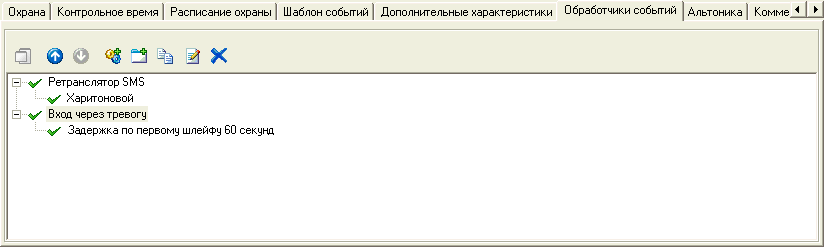
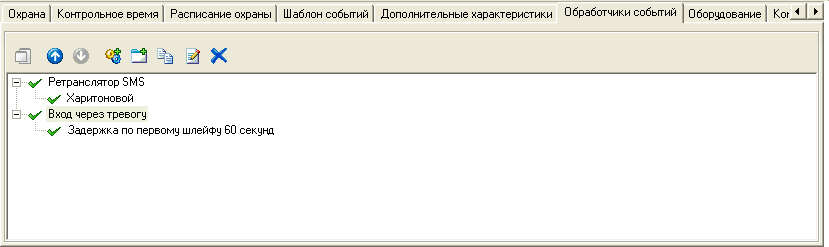
Закрыты баги: ANDR-1594, ANDR-1595, ANDR-1596, ANDR-1597, ANDR-1598, ANDR-1599, ANDR-1600, ANDR-1602, ANDR-1604, ANDR-1605, ANDR-1615, ANDR-1616.

diff --git a/russian/05-object-manager.md b/russian/05-object-manager.md
@@ -84,7 +84,7 @@
 
 ![Вкладка «Объект»: размещение объекта на карте][id-05-04-01]
 
-После того, как маркер будет установлен, следует нажать кнопку "Сохранить" для сохранения изменений. Для отмены сохранения нужно кликнуть по кнопке "Отменить". Полученные координаты объекта будут сохранены в "Облаке" и в базе данных "Центра охраны". 
+После того, как маркер будет установлен, следует нажать кнопку "Сохранить" для сохранения изменений. Полученные координаты объекта будут сохранены в "Облаке" и в базе данных "Центра охраны". После успешного сохранения координат кнопка "Удалить с карты" будет активна. В обратном случае потребуется повторить операцию размещения объекта на карте.
 
 Важно: размещение объектов на карте возможно при выполненном подключении к Облаку и открытых портах 80 и 443 протокола TCP для компьютера, на котором запущен модуль "Менеджер объектов".
 
@@ -191,19 +191,23 @@
 
 ![Вкладка «Ответственные лица»][id-05-07]
 
-С помощью кнопок «Создать» и «Удалить» можно добавить новое либо удалить выбранное ответственное лицо из списка. Кнопка «Изменить» предназначена для изменения значений полей выбранного ответственного лица.
+С помощью кнопок «Создать» и «Удалить» можно добавить новое либо удалить выбранное ответственное лицо из списка.
 
 Кнопки «Вверх» и «Вниз» предназначены для изменения порядка следования ответственных лиц в списке. Порядок следования ответственных лиц в карточке объекта в модуле «Дежурный оператор» соответствует порядку, который можно задать на вкладке «Ответственные лица».
 
-При нажатии на кнопку «Создать» или «Изменить» открывается окно, в котором можно отредактировать значения полей ответственного лица.
-
-![Окно «Ответственное лицо»][id-05-07-01]
+При нажатии на кнопку «Редактировать» в главной панели модуля «Менеджер объекта» на вкладке «Ответственные лица» можно отредактировать значения полей ответственного лица объекта.
 
 Поле «Номер» необходимо заполнять в том случае, если в качестве ответственного лица указывается пользователь, владеющий персональным кодом постановки/снятия объекта с охраны. При этом номер пользователя, запрограммированный в объектовом приборе, должен быть указан в качестве значения поля «Номер» для ответственного лица.
 
 Если описываемое ответственное лицо не владеет персональным кодом постановки/снятия объекта с охраны, то для поля «Номер» можно использовать пустое значение.
 
-Кроме номера пользователя, для ответственного лица можно указать и другую необходимую информацию: имя, должность, адрес, номера телефонов. 
+Кроме номера пользователя для ответственного лица можно указать и другую необходимую информацию: имя, должность, номера мобильного и домашнего телефонов, адрес.
+
+При заданном значении «Да» в поле «Отображать в личном кабинете» ответственное лицо будет отображаться в списке ответственных лиц во вкладке «Личный кабинет». Таким образом, ответственное лицо может быть выбрано для регистрации администратора личного кабинета.
+
+В поле «PIN код» можно изменить PIN код ответственного лица для проверки КТС, а также для подтверждения снятия или постановки объекта на охрану (при запросе PIN кода). Если до его изменения PIN коды всех ответственных лиц объекта были одинаковы, появится окно с вопросом о необходимости изменения ПИН-кода для всех ответственных лиц объекта.
+
+Поле «Комментарий к ответственным» предназначено для добавления дополнительной информации об ответственных лицах объекта.
 
 Если в ответственных лицах описаны пользователи, владеющие персональными кодами постановки/снятия, то информация о пользователе, выполнившем постановку или снятие, будет включена в описание события, обрабатываемого оператором «Центра охраны».
 
@@ -295,23 +299,25 @@
 
 ![Вкладка «Расписание охраны»: контроль расписания объектов][id-05-10-1]
 
-* «Взятие раньше времени». Данный параметр обеспечивает возможность получить информацию о том, что объект был взят под охрану раньше, чем это указано в расписании охраны. Если объект преждевременно был взят под охрану, создается системное событие с кодом «ZZWA». Таким образом, руководитель охраняемого предприятия может быть извещен посредством SMS о том, что сотрудники покинули рабочее место ранее положенного времени. 
+* «Взятие раньше времени». Данный параметр позволяет получить информацию о том, что объект был взят под охрану раньше, чем это указано в расписании охраны. Если объект преждевременно был взят под охрану, создается системное событие с кодом «ZZWA». Таким образом, руководитель охраняемого предприятия может быть извещен посредством SMS о том, что сотрудники покинули рабочее место ранее положенного времени. 
  
-* «Нет взятия по расписанию». Данный параметр обеспечивает возможность получить информацию о том, что объект снят с охраны в то время, как в соответствии с расписанием охраны должен быть взят под охрану. В этом случае создается системное событие «ZZXB», которое будет повторяться с интервалом, заданным параметром «Периодичность тревог расписания охраны», до взятия объекта под охрану или до наступления времени, когда объект может быть снят с охраны. Параметр «Периодичность тревог расписания охраны» задается в настройках модуля «Менеджер событий». 
+* «Нет взятия по расписанию». Данный параметр позволяет получить информацию о том, что объект снят с охраны в то время, как в соответствии с расписанием охраны должен быть взят под охрану. В этом случае создается системное событие «ZZXB», которое будет повторяться с интервалом, заданным параметром «Периодичность тревог расписания охраны», до взятия объекта под охрану или до наступления времени, когда объект может быть снят с охраны. Параметр «Периодичность тревог расписания охраны» задается в настройках модуля «Менеджер событий». 
 
-* «Позднее взятие». Данный параметр обеспечивает возможность получить информацию о том, что объект был взят под охрану позже, чем это указано в расписании охраны. Если объект был поздно взят под охрану, создается системное событие с кодом «ZZWB». Таким образом, руководитель охраняемого предприятия может быть извещен посредством SMS о времени задержки сотрудников на рабочем месте. 
+* «Позднее взятие». Данный параметр позволяет получить информацию о том, что объект был взят под охрану позже, чем это указано в расписании охраны. Если объект был поздно взят под охрану, создается системное событие с кодом «ZZWB». Таким образом, руководитель охраняемого предприятия может быть извещен посредством SMS о времени задержки сотрудников на рабочем месте. 
 
-* «Снятие раньше времени». Данный параметр обеспечивает возможность получить информацию о том, что объект был снят с охраны раньше, чем это указано в расписании охраны. Если объект преждевременно снят с охраны, создается системное событие с кодом «ZZXD».
+* «Снятие раньше времени». Данный параметр позволяет получить информацию о том, что объект был снят с охраны раньше, чем это указано в расписании охраны. Если объект преждевременно снят с охраны, создается системное событие с кодом «ZZXD».
 
-* «Нет снятия по расписанию». Данный параметр обеспечивает возможность получить информацию о том, что объект взят под охрану в то время, как в соответствии с расписанием охраны должен быть снят с охраны. В этом случае создается системное событие с кодом «ZZWC». Таким образом, руководитель охраняемого предприятия может быть извещен посредством SMS о том, что сотрудники несвоевременно приходят на рабочее место.
+* «Нет снятия по расписанию». Данный параметр позволяет получить информацию о том, что объект взят под охрану в то время, как в соответствии с расписанием охраны должен быть снят с охраны. В этом случае создается системное событие с кодом «ZZWC». Таким образом, руководитель охраняемого предприятия может быть извещен посредством SMS о том, что сотрудники несвоевременно приходят на рабочее место.
 
-* «Позднее снятие». Данный параметр обеспечивает возможность получить информацию о том, что объект был снят с охраны позже, чем это указано в расписании охраны. Если объект был поздно снят с охраны, создается системное событие с кодом «ZZWD». Таким образом, руководитель охраняемого предприятия может быть извещен посредством SMS о времени снятия объекта с охраны, то есть о времени прихода сотрудников на рабочее место.
+* «Позднее снятие». Данный параметр позволяет получить информацию о том, что объект был снят с охраны позже, чем это указано в расписании охраны. Если объект был поздно снят с охраны, создается системное событие с кодом «ZZWD». Таким образом, руководитель охраняемого предприятия может быть извещен посредством SMS о времени снятия объекта с охраны, то есть о времени прихода сотрудников на рабочее место.
 
 В поле «Допустимое отклонение от расписания охраны (мин)» задается диапазон времени, в течение которого разрешены любые нарушения в расписании объектов (максимальное значение параметра - 60 минут). Например, минус 15 минут от времени взятия под охрану и плюс 15 минут от времени снятия с охраны в расписании объектов.
 
+Предположим, в расписании на охрану объекта отведено время с 21:45 до 09:15. При допустимом отклонении 15 минут взятие на охрану разрешено с 21:30 до 21:45, а снятие с охраны разрешено с 09:15 до 09:30.
+
 По умолчанию события с кодами «ZZXB» и «ZZXD» описаны во всех шаблонах событий как тревоги, то есть требуют регистрации действий оператора по своей отработке и отмене. При необходимости можно изменить описание этого события. О том, как это сделать, можно узнать из главы настоящего описания, посвященной модулю «Настройка системы».
 
-Если в версии «Центра охраны» 4.2 и ранее для объекта был установлен контроль расписания объектов охраны, то при обновлении программного обеспечения для него будут активизированы параметры «Нет взятия по расписанию» и «Снятие раньше времени». Для остальных параметров контроля расписания объектов значения устанавливаются по умолчанию.
+Если в версии «Центра охраны» 4.2 и ранее для объекта был установлен контроль расписания объектов охраны, то при обновлении программного обеспечения для него будут активизированы параметры «Нет взятия по расписанию» и «Снятие раньше времени». Остальные параметры контроля расписания объектов будут отключены.
 
 ## Вкладка «Шаблон событий»
 
@@ -379,15 +385,15 @@
 Для того, чтобы пользователь мог вносить изменения в обработчики событий, связанные с объектом, он должен обладать разрешением «Редактировать обработчики событий» для модуля «Менеджер событий».
 
 
-## Вкладка «Альтоника»
+## Вкладка «Оборудование»
 
-Вкладка «Альтоника» предназначена для того, чтобы настроить параметры объекта, специфичные для оборудования производства компании «Альтоника».
+Вкладка «Оборудование» предназначена для того, чтобы указать тип используемого на объекте оборудования.
 
-![Вкладка «Альтоника»][id-05-14]
+![Вкладка «Оборудование»][id-05-14]
 
 ### Тип оборудования
 
-Для корректной работы алгоритмов обработки сигналов «Центра охраны» необходимо указать правильный тип системы используемого на объекте оборудования: «Lonta-202» или «RS-200». В случае, если на объекте установлено оборудование другой системы, нужно указать тип «Другой».
+Для корректной работы алгоритмов обработки сигналов «Центра охраны» необходимо указать правильный тип системы используемого на объекте оборудования: «AlarmView», «Lonta-202», «Puper type 5» или «RS-200». В случае, если на объекте установлено оборудование другой системы, нужно указать тип «Другой».
 
 ### Уровни сигнала
 
@@ -399,7 +405,7 @@
 
 В ситуации, когда несколько объектовых приборов подключаются к одному радиопередатчику системы «Lonta-202», для идентификации таких приборов необходимо указать объектовый номер передатчика в поле «Номер объекта», а номер раздела, который соответствует прибору, в поле «Номер раздела». 
 
-Значения, указанные в полях «Номер объекта» и «Номер раздела» являются приоритетными по отношению к стандартным номерам объектов «Центра охраны»: при приеме событий сначала просматриваются значения, введенные на закладке «Альтоника» и только потом — значения номеров объектов.
+Значения, указанные в полях «Номер объекта» и «Номер раздела» являются приоритетными по отношению к стандартным номерам объектов «Центра охраны»: при приеме событий сначала просматриваются значения, введенные на закладке «Оборудование» и только потом — значения номеров объектов.
 
 ## Вкладка «Комментарий»
 
@@ -407,18 +413,29 @@
 
 ![Вкладка «Комментарий»][id-05-15]
 
-На этой вкладке часто указывают информацию, предназначенную для групп быстро реагирования. 
-Вкладка «Комментарий» отображается в карточке объекта в модуле «Дежурный оператор», поэтому, значение на вкладке «Комментарий» часто используется для хранения заметок по объекту: просьбы ответственных, замечания инженеров, обслуживающих объект, рекомендации операторам и так далее.
+В поле «Комментарий для оператора» указывается информация, предназначенная для дежурного оператора «Центра охраны». Данная информация отображается в карточке объекта в модуле «Дежурный оператор», поэтому она часто используется для хранения заметок по объекту: просьбы ответственных, замечания инженеров, обслуживающих объект, рекомендации операторам и так далее.
+
+В поле «Комментарий для ГБР» следует указывать информацию для групп быстрого реагирования. При тревоге на объекте она передается в приложение «Тревога в ГБР».
+
+## Вкладка «Личный кабинет»
+
+Предоставить ответственному лицу доступ к «Личному кабинету» в Облаке можно на вкладке «Личный кабинет». Облачный сервис «Личный кабинет» позволяет клиентам частного охранного предприятия получать информацию о своих объектах (например, отчеты о постановках и снятиях с охраны, PIN коды для доступа к Call-центру).
+
+![Вкладка «Личный кабинет»][id-05-16]
+
+Для регистрации администратора «Личного кабинета» следует перейти в режим редактирования объекта. В блоке «Администратор объекта» в поле «Ф.И.О. ответственного» необходимо выбрать из выпадающего списка ответственное лицо. В данном списке присутствуют ответственные лица, указанные на вкладке «Ответственные лица» и разрешенные для отображения в «Личном кабинете». 
+
+При выборе ответственного лица в поле «Мобильный телефон» отобразится мобильный телефон ответственного лица, введенный в одноименном поле на вкладке «Ответственные лица». Данный телефон должен быть указан в международном формате.
+
+После того, как ответственное лицо будет выбрано, следует нажать кнопку «Отправить приглашение». На указанный мобильный номер ответственному лицу придет SMC-сообщение, в котором будет web-ссылка на страницу для регистрации в «Личном кабинете» и специальный код, необходимый при регистрации.
 
 ## Вкладка «Видеороутеры»
 
 Вкладка «Видеороутеры» в модуле «Менеджер объектов» позволяет добавить для объекта видеороутеры. К данным видеороутерам должны быть подключены видеокамеры, установленные на объекте. 
 
-Благодаря установке видеокамер возможно удаленное наблюдение за объектом. Наблюдение может вести как ответственное лицо охраняемого предприятия, так и дежурный оператор охранного предприятия при отработке тревоги.
+Благодаря установке видеокамер возможно удаленное наблюдение за объектом. Наблюдение может вести как ответственное лицо охраняемого предприятия с помощью web-интерфейса личного или мобильного приложения, так и дежурный оператор охранного предприятия в модуле «Дежурный оператор» при отработке тревоги.
 
-Добавлять и удалять видеороутеры, а также обновлять информацию о подключенных к видеороутеру камерах может пользователь, наделенный правом «Изменять информацию о видеороутерах».
-
-![Вкладка «Видеороутеры»][id-05-16]
+![Вкладка «Видеороутеры»][id-05-17]
 
 Чтобы добавить установленный на объекте видеороутер, нужно нажать на кнопку «Добавить видеороутер» на вкладке «Видеороутеры». В поле «№ роутера» следует ввести идентификационный номер видеороутера, а в поле «Ключ» - пароль для его авторизации. Требуемые данные должны быть указаны на устройстве. После этого необходимо нажать кнопку «Сохранить» для сохранения информации о видеороутере или кнопку «Отмена» для отмены сохранения. Значок текущего состояния видеороутера отображает статус его подключения. 
 
@@ -441,7 +458,6 @@
 [id-05-05]: img/ObjMngr-05-Parts.png "Вкладка «Разделы»"
 [id-05-06]: img/ObjMngr-06-Zones.png "Вкладка «Шлейфы»"
 [id-05-07]: img/ObjMngr-07-DoorKeys.png "Вкладка «Ответственные лица»"
-[id-05-07-01]: img/ObjMngr-07-DoorKeys-01.png "Окно «Ответственное лицо»"
 [id-05-08]: img/ObjMngr-08-Arming.png "Вкладка «Охрана»"
 [id-05-09]: img/ObjMngr-09-ControlTime.png "Вкладка «Контрольное время»"
 [id-05-10]: img/ObjMngr-10-ArmSchedule.png "Вкладка «Расписание охраны»"
@@ -451,6 +467,7 @@
 [id-05-11-02]: img/ObjMngr-11-EventTemplate-02.png "Окно «Отключить событие»"
 [id-05-12]: img/ObjMngr-12-ExtFields.png "Вкладка «Дополнительные характеристики»"
 [id-05-13]: img/ObjMngr-13-EventHandlers.png "Вкладка «Обработчики событий»"
-[id-05-14]: img/ObjMngr-14-Altonika.png "Вкладка «Альтоника»"
+[id-05-14]: img/ObjMngr-14-Equipment.png "Вкладка «Оборудование»"
 [id-05-15]: img/ObjMngr-15-Comments.png "Вкладка «Комментарий»"
-[id-05-16]: img/ObjMngr-16-VideoRouters.png "Вкладка «Видеороутеры»"
+[id-05-16]: img/ObjMngr-16-Account.png "Вкладка «Личный кабинет»"
+[id-05-17]: img/ObjMngr-17-VideoRouters.png "Вкладка «Видеороутеры»"

diff --git a/russian/04-event-manager.md b/russian/04-event-manager.md
@@ -751,11 +751,11 @@
 
 Параметр «Игнорировать принятые описания объектов» позволяет отключить прием по каналу связи и сохранение в базе данных карточек объектов. Если значение этого параметра установлено, то описания объектов, которые передаются вместе с событиями, а также их изменения на удаленном экземпляре «Центра охраны» игнорируются. Если значение этого параметра не установлено, то описания объектов, информация о которых передается по каналу связи, будут синхронизироваться.
 
-Если параметр «Включить режим совместимости с Пандорой» не установлен, то обработчик «Сеть Пандоры» гарантирует доставку информации до получателя. Достигается это с помощью подтверждений, который отправляются от получателя после того, как принятая им информация будет зарегистрирована в базе данных «Центра охраны». С помощью параметра «Интервал подтверждения доставки» можно указать время, в течении которого обработчик «Сеть Пандоры» ожидает подтверждения приема от получателя. Если за указанный интервал подтверждение получено не будет, то обработчик «Сеть Пандоры» выполнит отправку неподтверженной информации еще раз. 
+Если параметр «Включить режим совместимости с Пандорой» не установлен, то обработчик «Сеть Пандоры» гарантирует доставку информации до получателя. Достигается это с помощью подтверждений, который отправляются от получателя после того, как принятая им информация будет зарегистрирована в базе данных «Центра охраны». С помощью параметра «Интервал подтверждения доставки» можно указать время, в течении которого обработчик «Сеть Пандоры» ожидает подтверждения приема от получателя. Если за указанный интервал подтверждение получено не будет, то обработчик «Сеть Пандоры» выполнит отправку неподтвержденной информации еще раз. 
 
 Значение параметра «Интервал подтверждения доставки» зависит от пропускной способности канала связи используемого обработчиком «Сеть Пандоры» и производительности компьютеров, на которых запущен модуль «Менеджер событий». Например, если в качестве канала связи используется GPRS, то во избежании лавинообразного увеличения объема информации в очереди на передачу рекомендуется увеличивать значение параметра «Интервал подтверждения доставки» до 90 секунд.
 
-При отсутсвии соединения обработчик «Сеть Пандоры» накапливает информацию в очереди на передачу, а после восстановления связи осуществляет передачу информации накопленной в очереди. Для того, чтобы управлять объемом и актуальностью данных, которые накапливаются в очереди на передачу, предназначен параметр «Интервал хранения непереданных данных». Если период хранения данных в очереди на передачу больше, чем значение данного параметра, то такие данные будут автоматически удалены из очереди на передачу. Кроме того, если пропускная способность канала связи ухудшилось и в очереди накопились данные, передать которые не представляется возможным, нажатием на кнопку «Очистить очередь на передачу» можно принудительно удалить всю информацию, накопленную в очереди на передачу в настоящий момент.
+При отсутствии соединения обработчик «Сеть Пандоры» накапливает информацию в очереди на передачу, а после восстановления связи осуществляет передачу информации накопленной в очереди. Для того, чтобы управлять объемом и актуальностью данных, которые накапливаются в очереди на передачу, предназначен параметр «Интервал хранения непереданных данных». Если период хранения данных в очереди на передачу больше, чем значение данного параметра, то такие данные будут автоматически удалены из очереди на передачу. Кроме того, если пропускная способность канала связи ухудшилось и в очереди накопились данные, передать которые не представляется возможным, нажатием на кнопку «Очистить очередь на передачу» можно принудительно удалить всю информацию, накопленную в очереди на передачу в настоящий момент.
 
 Если поставлена отметка напротив параметра «Протоколировать обмен», то на жесткий диск компьютера будет сохраняться протокол обмена обработчика событий по сети TCP/IP. Эта информация бывает нужной при выяснении причин возникновения проблем при установке соединения или доставке информации по каналу связи. Не рекомендуется включать протоколирование обмена самостоятельно, без запроса из службы технической поддержки ООО НТКФ «Си-Норд».
 
@@ -778,6 +778,64 @@
 ![Окно «Параметры обработчика (Параметры передачи)», вкладка «Действия и отмены»][id-04-46]
 
 Поставив отметку рядом с действием или отменой, можно пометить их, как необходимые к передаче.
+
+## Связь с Облаком
+
+При выборе пункта «Связь с Облаком» в выпадающем меню модуля «Менеджер событий» открывается одноименное окно. 
+
+В панели состояния окна отображается значок «Облако». Цвет значка меняется в зависимости от успешности соединения с Облаком и количества сообщений в очереди на передачу. Если соединение с Облаком установлено и количество сообщений в очереди на передачу не превышает 100, «Облако» будет зеленым. В обратном случае - красным. 
+
+Кроме того, статус соединения с Облаком выводится в строке «Связь с Облаком»,  а количество сообщений в очереди на передачу - в строке «Сообщений в очереди».
+
+В окне «Связь с Облаком» присутствует три вкладки: «Режим подключения», «Контактные данные» и «UID "Центра охраны"».
+
+### Режим подключения
+
+На вкладке «Режим подключения» окна «Связь с Облаком» следует выбрать один из режимов подключения к Облаку. Выбор режима определяет облачные сервисы, которые будут использоваться, и данные, передаваемые в Облако.
+
+!["Окно «Связь с Облаком», вкладка «Режим подключения»][id-04-49]
+
+Полная интеграция с Облаком позволяет использовать удаленный доступ к оборудованию на объекте, а также все облачные сервисы («Call-центр», «Тревога в ГБР», «Личный кабинет», «Ситуационная карта»). При этом данные об объектах, события и действия операторов будут передаваться в Облако.
+
+Подключение к Облаку можно использовать только для удаленного доступа к оборудованию на объекте. Данный режим подключения позволяет передавать в Облако только номера объектов, идентификаторы коммуникаторов и разрешения для инженеров на доступ к объектам. 
+
+Также можно отказаться от использования всех облачных сервисов и запретить передачу каких-либо данных в Облако.
+
+### Контактные данные
+
+Вкладка «Контактные данные» позволяет изменить данные, указанные при регистрации «Центра охраны» в Облаке. 
+
+На вкладке можно заполнить такие поля, как «Фамилия», «Имя», «Мобильный телефон», «Электронная почта», «Название организации», «Город» и «Адрес». Поля, отмеченные звездочкой, обязательны для заполнения. 
+
+После изменения данных следует нажать кнопку «Применить». При этом введенная информация будет передана в Облако.
+
+!["Окно «Связь с Облаком», вкладка «Контактные данные»"][id-04-50]
+
+### UID Центра охраны
+
+Узнать UID используемого «Центра охраны» можно на вкладке «UID "Центра охраны"». Здесь UID можно копировать, выделив его и кликнув по иконке «Копировать». Это удобно, например, для последующего использования UID при регистрации учетной записи партнера.
+
+!["Окно «Связь с Облаком», вкладка «UID Центра охраны»"][id-04-51]
+
+При необходимости повторной регистрации учетной записи партнера следует создать новый UID. Для этого нужно нажать на кнопку «Создать новый UID». С помощью нового UID можно добавить данный «Центр охраны» к другой учетной записи или создать новую учетную запись партнера. Создавать новый UID можно не чаще одного раза в сутки. 
+
+## О программе
+
+При выборе пункта «О программе...» в выпадающем меню модуля «Менеджер событий» открывается одноименное окно. В нем представлена информация о версии программного обеспечения «Центр охраны», а также информация о режиме его эксплуатации. «Центр охраны» может использоваться с ключом защиты, с временной лицензией или на условиях аренды.
+
+!["Окно «О программе»"][id-04-52]
+
+При использовании ключа защиты или лицензии в окне «О программе...» также указывается:
+
+- редакция «Центра охраны»;
+
+- максимальное количество объектов, разрешенное к использованию;
+
+- текущее количество объектов, обслуживаемых «Центром охраны».
+
+Если «Центр охраны» используется с ключом защиты, то в окне «О программе...» представлена также информация о ключе защиты.
+
+Если программное обеспечение используется с файлом лицензии, то здесь указывается информация о лицензии, а также даты начала и завершения ее действия.
 
 [id-04-01]: img/EvMan-01.png "Выпадающее меню модуля «Менеджер событий»"
 [id-04-02]: img/EvMan-02.png "Окно «Настройка», вкладка «Общие»"
@@ -827,3 +885,7 @@
 [id-04-46]: img/Eventhandler-06-06.png "Окно «Параметры обработчика (Параметры передачи)», вкладка «Действия и отмены»"
 [id-04-47]: img/EvMan-05.png "Окно «Регистрация «Центра охраны» в «Облаке»"
 [id-04-48]: img/EvMan-06.png "Окно завершения регистрации «Центра охраны» в «Облаке»"
+[id-04-49]: img/EvMan-07-CloudConnection.png "Окно «Связь с Облаком», вкладка «Режим подключения»"
+[id-04-50]: img/EvMan-07-CloudConnection-02.png "Окно «Связь с Облаком», вкладка «Контактные данные»"
+[id-04-51]: img/EvMan-07-CloudConnection-03.png "Окно «Связь с Облаком», вкладка «UID Центра охраны»"
+[id-04-52]: img/EvMan-08-AboutProgram.png "Окно «О программе»"

diff --git a/russian/12-cloud-services.md b/russian/12-cloud-services.md
@@ -52,13 +52,13 @@
 
 После этого клиент должен нажать тревожную кнопку. Если она работает, в «Центре охраны» возникает тревога, которая автоматически отменяется по причине «Тест». При этом «Call-центр» сообщает клиенту об исправности тревожной кнопки, а в журнале событий регистрируется совершение проверки тревожной сигнализации.
 
-## Тревога в ГБР
-
 ## Ситуационная карта
 
 Облачная услуга «Ситуационная карта» предназначена для отображения на карте местности оперативной информации о тревожных объектах «Центра охраны» и текущем местоположении экипажей ГБР.
 
 ![Ситуационная карта][id-13-03]
+
+Ссылки на ситуационную карту генерируются в административной панели учетной записи партнера в секции «Ситуационная карта». Здесь их можно скопировать в буфер при помощи одноименной функции и после этого передать ответственным лицам.
 
 Для отображения на карте тревожные объекты предварительно должны быть размещены на карте местности в модуле «Менеджер объектов» на вкладке «Объект». При щелчке правой кнопкой мыши на маркере объекта на ситуационной карте появится окно с информацией: номер, наименование и адрес объекта, а также дата и время тревоги.
 
@@ -114,7 +114,7 @@
 
 На указанную при регистрации электронную почту будет отправлено письмо. Для завершения регистрации следует подтвердить адрес электронной почты, пройдя по ссылке, приведенной в письме. 
 
-При первой авторизации на сайте появится форма, которую необходимо заполнить. Здесь следует проверить контактную информацию, указанную при регистрации «Центра охраны». А именно: имя и фамилию, а также мобильный телефон партнера; наименование, город и адрес организации. Кроме того, здесь предлагается создать и подтвердить пароль для входа в аккаунт партнера.
+При первой авторизации на сайте появится форма, которую следует заполнить. Здесь следует проверить и при необходимости изменить контактную информацию, указанную при регистрации «Центра охраны». А именно: имя и фамилию, а также мобильный телефон партнера; наименование, город и адрес организации. Кроме того, здесь предлагается создать и подтвердить пароль для входа в аккаунт партнера.
 
 ### Повторная регистрация учетной записи партнера
 
@@ -168,13 +168,13 @@
 
 ![Настройка услуги "Личный кабинет" в учетной записи партнера][id-13-13]
 
-В секции «Ситуационная карта» приведены три ссылки на ситуационные карты. Ссылки удобно копировать для последующей передачи ответственным лицам с помощью специальной функции «Копировать в буфер». Таким образом, для перехода по ссылке авторизация не требуется. 
+В секции «Ситуационная карта» приведены три ссылки на ситуационные карты. Ссылки удобно копировать для последующей передачи разным ответственным лицам с помощью специальной функции «Копировать в буфер». Таким образом, для перехода по ссылке авторизация не требуется. 
 
 ![Настройка услуги "Ситуационная карта" в учетной записи партнера][id-13-14]
 
 Поле «Комментарий» к каждой ссылке предназначен для задания необходимой информации: например, здесь можно указать, кто использует данную ссылку для доступа к ситуационной карте. 
 
-Если необходимо запретить доступ к карте по выданной ссылке, ссылку можно обновить. В этом случае при переходе по устаревшей ссылке карта будет недоступна, а если ссылка уже была открыта в браузере, данные перестанут обновляться.
+Если необходимо запретить какому-либо ответственному лицу доступ к карте по выданной ссылке, ссылку можно обновить. В этом случае при переходе по устаревшей ссылке карта будет недоступна, а если ссылка уже была открыта в браузере, данные перестанут обновляться.
 
 [id-13-01]: img/CldSrvcs-01-RouterConnection.png "Подключение Телефонного роутера"
 [id-13-02]: img/CldSrvcs-02-CallCenterServices.png "Выбор услуг при звонке в «Call-центр»"
